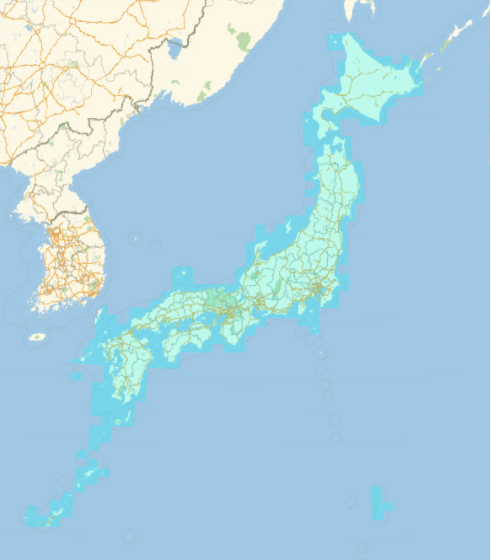
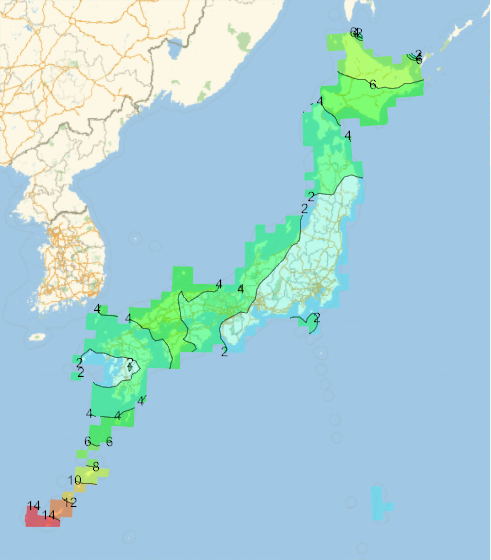
rebuilding site Tue Mar  7 22:00:18 JST 2023

Changed region(s): [[0.0305, 0.0304, 0.8859, 0.9411], [0.5804, 0.5464, 0.6721, 0.6071]]

diff --git a/essay/convert-datum-tokyo-to-jgd/index.html b/essay/convert-datum-tokyo-to-jgd/index.html
@@ -12,7 +12,7 @@
 <meta property="og:type" content="article" />
 <meta property="og:url" content="https://www.330k.info/essay/convert-datum-tokyo-to-jgd/" /><meta property="og:image" content="https://www.330k.info/essay/convert-datum-tokyo-to-jgd/thumbnail_001.png" /><meta property="article:section" content="essay" />
 <meta property="article:published_time" content="2023-03-05T11:53:31+09:00" />
-<meta property="article:modified_time" content="2023-03-07T03:56:16+09:00" />
+<meta property="article:modified_time" content="2023-03-07T21:59:39+09:00" />
 
 	<meta name="twitter:card" content="summary_large_image"/>
 <meta name="twitter:image" content="https://www.330k.info/essay/convert-datum-tokyo-to-jgd/thumbnail_001.png"/>
@@ -82,7 +82,7 @@ if (!doNotTrack) {
 <div class="meta__item-datetime meta__item">
 	<svg class="meta__icon icon icon-time" width="16" height="14" viewBox="0 0 30 28"><path d="M15 0C7 0 1 6 1 14s6 14 14 14 14-6 14-14S23 0 15 0zm0 25C9 25 4 20 4 14S9 3 15 3s11 5 11 11-5 11-11 11zm1-18h-2v8.4l6.8 4.4L22 18l-6-3.8V7z"/></svg>
 	<time class="meta__text" datetime="2023-03-05T11:53:31">March 05, 2023</time>
-	<time class="meta__text" datetime="2023-03-07T03:56:16"> (Last Modified: March 07, 2023)</time>
+	<time class="meta__text" datetime="2023-03-07T21:59:39"> (Last Modified: March 07, 2023)</time>
 </div>
 
 <div class="meta__item-categories meta__item">
@@ -187,7 +187,7 @@ if (!doNotTrack) {
 </table>
 <p>目論見通り、新1次式は既存1次式と比較して若干改善できた。</p>
 <p>ただ、その改善幅は平均で22cmと大きくはなく、また南西諸島で15m程度の誤差が出てしまう弱点は共通しているため、既存1次式を置き換えて利用できるものにはならなかった。</p>
-<p>一方で、次数を上げた3次式では全体的に誤差が小さくなっているほか、南西諸島と小笠原諸島でも使えるようになった点でメリットがあり、使える場面があるかもしれない(宮古島以西と大東諸島、八丈島、青ヶ島では使えない点は注意)。</p>
+<p>一方で、次数を上げた3次式では全体的に誤差が小さくなっているほか、南西諸島と小笠原諸島での誤差が2m程度まで抑えられたため、使える場面があるかもしれない(宮古島以西と大東諸島、八丈島、青ヶ島では使えない点は注意)。</p>
 		</div>
 		<footer class="post__footer">
 			

diff --git a/tags/index.html b/tags/index.html
@@ -87,7 +87,7 @@ if (!doNotTrack) {
 <div class="meta__item-datetime meta__item">
 	<svg class="meta__icon icon icon-time" width="16" height="14" viewBox="0 0 30 28"><path d="M15 0C7 0 1 6 1 14s6 14 14 14 14-6 14-14S23 0 15 0zm0 25C9 25 4 20 4 14S9 3 15 3s11 5 11 11-5 11-11 11zm1-18h-2v8.4l6.8 4.4L22 18l-6-3.8V7z"/></svg>
 	<time class="meta__text" datetime="2023-03-05T11:53:31">March 05, 2023</time>
-	<time class="meta__text" datetime="2023-03-07T03:56:16"> (Last Modified: March 07, 2023)</time>
+	<time class="meta__text" datetime="2023-03-07T21:59:39"> (Last Modified: March 07, 2023)</time>
 </div>
 </div>
 	</header>
@@ -105,7 +105,7 @@ if (!doNotTrack) {
 <div class="meta__item-datetime meta__item">
 	<svg class="meta__icon icon icon-time" width="16" height="14" viewBox="0 0 30 28"><path d="M15 0C7 0 1 6 1 14s6 14 14 14 14-6 14-14S23 0 15 0zm0 25C9 25 4 20 4 14S9 3 15 3s11 5 11 11-5 11-11 11zm1-18h-2v8.4l6.8 4.4L22 18l-6-3.8V7z"/></svg>
 	<time class="meta__text" datetime="2023-03-05T11:53:31">March 05, 2023</time>
-	<time class="meta__text" datetime="2023-03-07T03:56:16"> (Last Modified: March 07, 2023)</time>
+	<time class="meta__text" datetime="2023-03-07T21:59:39"> (Last Modified: March 07, 2023)</time>
 </div>
 </div>
 	</header>

diff --git a/categories/雑記帳/index.html b/categories/雑記帳/index.html
@@ -92,7 +92,7 @@ if (!doNotTrack) {
 <div class="meta__item-datetime meta__item">
 	<svg class="meta__icon icon icon-time" width="16" height="14" viewBox="0 0 30 28"><path d="M15 0C7 0 1 6 1 14s6 14 14 14 14-6 14-14S23 0 15 0zm0 25C9 25 4 20 4 14S9 3 15 3s11 5 11 11-5 11-11 11zm1-18h-2v8.4l6.8 4.4L22 18l-6-3.8V7z"/></svg>
 	<time class="meta__text" datetime="2023-03-05T11:53:31">March 05, 2023</time>
-	<time class="meta__text" datetime="2023-03-07T03:56:16"> (Last Modified: March 07, 2023)</time>
+	<time class="meta__text" datetime="2023-03-07T21:59:39"> (Last Modified: March 07, 2023)</time>
 </div>
 
 <div class="meta__item-categories meta__item">

diff --git a/essay/index.html b/essay/index.html
@@ -92,7 +92,7 @@ if (!doNotTrack) {
 <div class="meta__item-datetime meta__item">
 	<svg class="meta__icon icon icon-time" width="16" height="14" viewBox="0 0 30 28"><path d="M15 0C7 0 1 6 1 14s6 14 14 14 14-6 14-14S23 0 15 0zm0 25C9 25 4 20 4 14S9 3 15 3s11 5 11 11-5 11-11 11zm1-18h-2v8.4l6.8 4.4L22 18l-6-3.8V7z"/></svg>
 	<time class="meta__text" datetime="2023-03-05T11:53:31">March 05, 2023</time>
-	<time class="meta__text" datetime="2023-03-07T03:56:16"> (Last Modified: March 07, 2023)</time>
+	<time class="meta__text" datetime="2023-03-07T21:59:39"> (Last Modified: March 07, 2023)</time>
 </div>
 
 <div class="meta__item-categories meta__item">

diff --git a/index.html b/index.html
@@ -91,7 +91,7 @@ if (!doNotTrack) {
 <div class="meta__item-datetime meta__item">
 	<svg class="meta__icon icon icon-time" width="16" height="14" viewBox="0 0 30 28"><path d="M15 0C7 0 1 6 1 14s6 14 14 14 14-6 14-14S23 0 15 0zm0 25C9 25 4 20 4 14S9 3 15 3s11 5 11 11-5 11-11 11zm1-18h-2v8.4l6.8 4.4L22 18l-6-3.8V7z"/></svg>
 	<time class="meta__text" datetime="2023-03-05T11:53:31">March 05, 2023</time>
-	<time class="meta__text" datetime="2023-03-07T03:56:16"> (Last Modified: March 07, 2023)</time>
+	<time class="meta__text" datetime="2023-03-07T21:59:39"> (Last Modified: March 07, 2023)</time>
 </div>
 
 <div class="meta__item-categories meta__item">

diff --git a/tags/gps/index.html b/tags/gps/index.html
@@ -92,7 +92,7 @@ if (!doNotTrack) {
 <div class="meta__item-datetime meta__item">
 	<svg class="meta__icon icon icon-time" width="16" height="14" viewBox="0 0 30 28"><path d="M15 0C7 0 1 6 1 14s6 14 14 14 14-6 14-14S23 0 15 0zm0 25C9 25 4 20 4 14S9 3 15 3s11 5 11 11-5 11-11 11zm1-18h-2v8.4l6.8 4.4L22 18l-6-3.8V7z"/></svg>
 	<time class="meta__text" datetime="2023-03-05T11:53:31">March 05, 2023</time>
-	<time class="meta__text" datetime="2023-03-07T03:56:16"> (Last Modified: March 07, 2023)</time>
+	<time class="meta__text" datetime="2023-03-07T21:59:39"> (Last Modified: March 07, 2023)</time>
 </div>
 
 <div class="meta__item-categories meta__item">

diff --git a/tags/数学/index.html b/tags/数学/index.html
@@ -92,7 +92,7 @@ if (!doNotTrack) {
 <div class="meta__item-datetime meta__item">
 	<svg class="meta__icon icon icon-time" width="16" height="14" viewBox="0 0 30 28"><path d="M15 0C7 0 1 6 1 14s6 14 14 14 14-6 14-14S23 0 15 0zm0 25C9 25 4 20 4 14S9 3 15 3s11 5 11 11-5 11-11 11zm1-18h-2v8.4l6.8 4.4L22 18l-6-3.8V7z"/></svg>
 	<time class="meta__text" datetime="2023-03-05T11:53:31">March 05, 2023</time>
-	<time class="meta__text" datetime="2023-03-07T03:56:16"> (Last Modified: March 07, 2023)</time>
+	<time class="meta__text" datetime="2023-03-07T21:59:39"> (Last Modified: March 07, 2023)</time>
 </div>
 
 <div class="meta__item-categories meta__item">

diff --git a/categories/index.html b/categories/index.html
@@ -87,7 +87,7 @@ if (!doNotTrack) {
 <div class="meta__item-datetime meta__item">
 	<svg class="meta__icon icon icon-time" width="16" height="14" viewBox="0 0 30 28"><path d="M15 0C7 0 1 6 1 14s6 14 14 14 14-6 14-14S23 0 15 0zm0 25C9 25 4 20 4 14S9 3 15 3s11 5 11 11-5 11-11 11zm1-18h-2v8.4l6.8 4.4L22 18l-6-3.8V7z"/></svg>
 	<time class="meta__text" datetime="2023-03-05T11:53:31">March 05, 2023</time>
-	<time class="meta__text" datetime="2023-03-07T03:56:16"> (Last Modified: March 07, 2023)</time>
+	<time class="meta__text" datetime="2023-03-07T21:59:39"> (Last Modified: March 07, 2023)</time>
 </div>
 </div>
 	</header>
